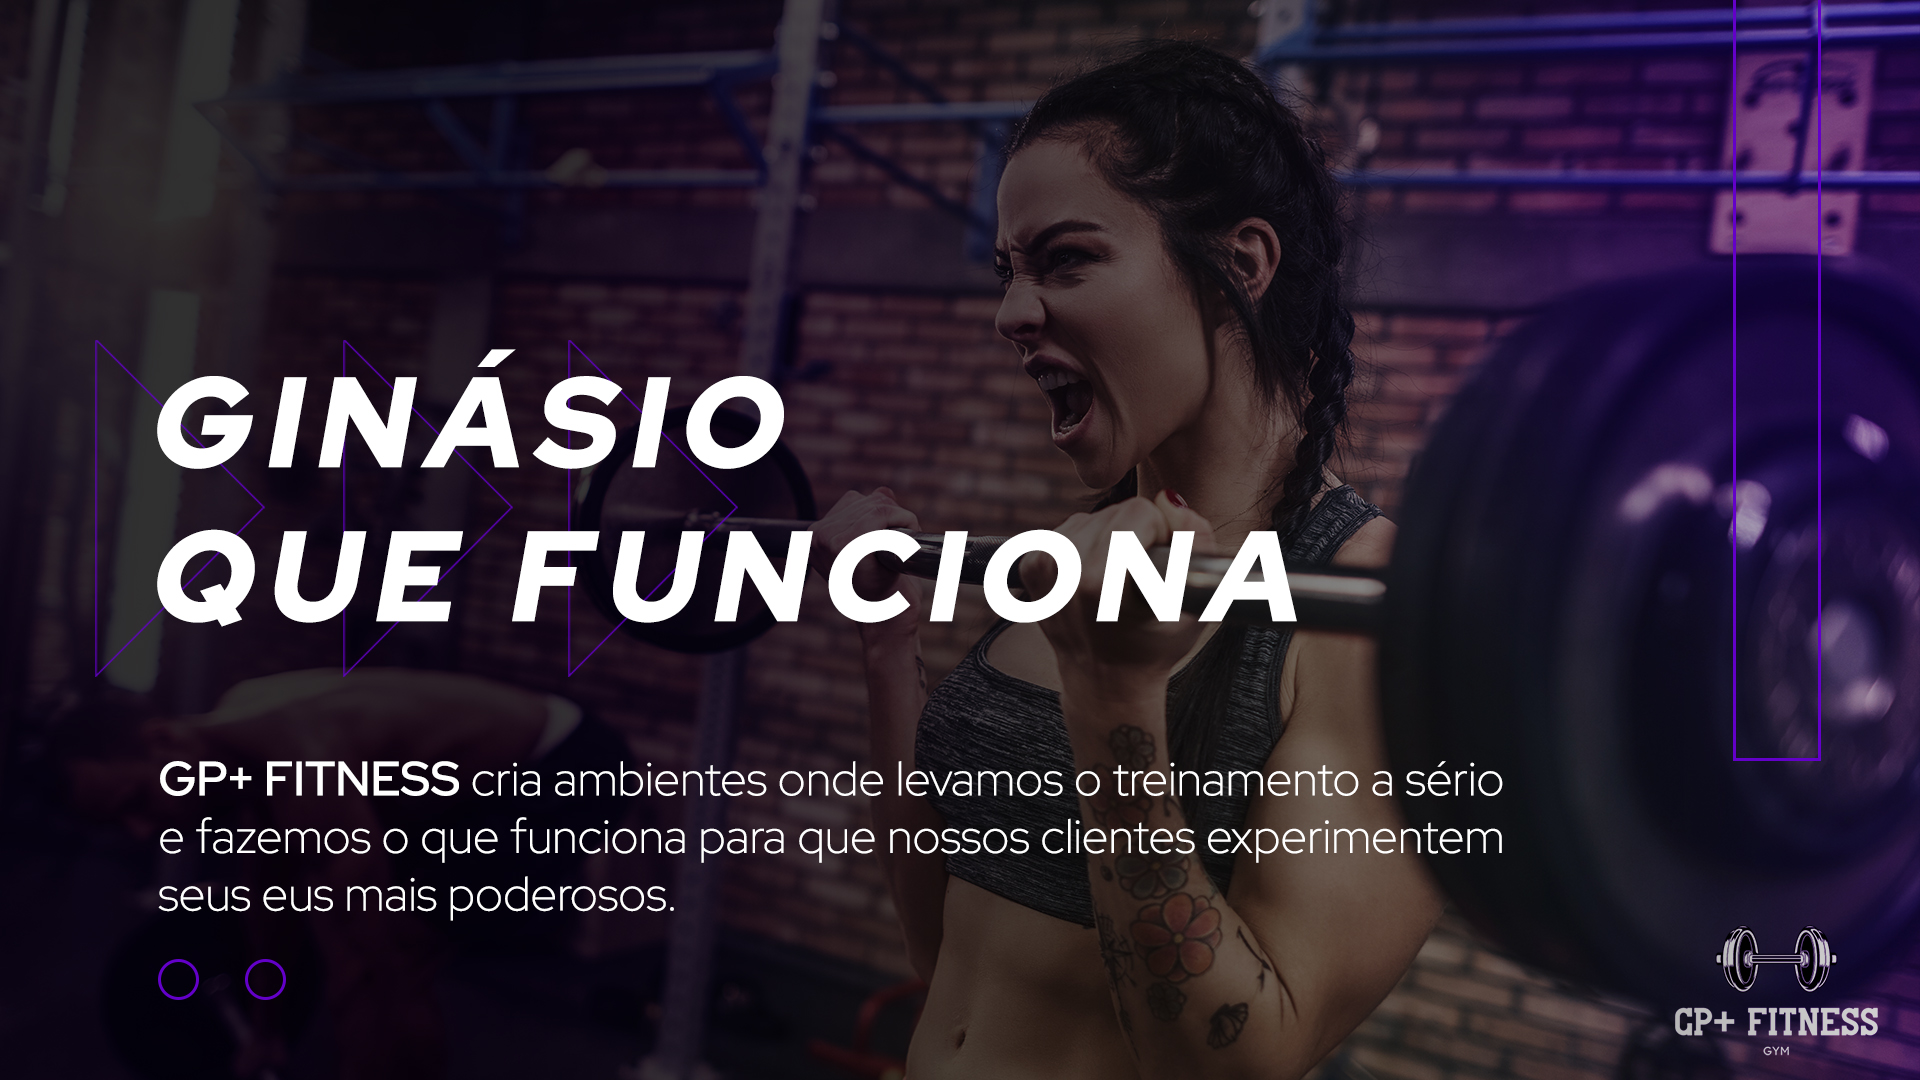
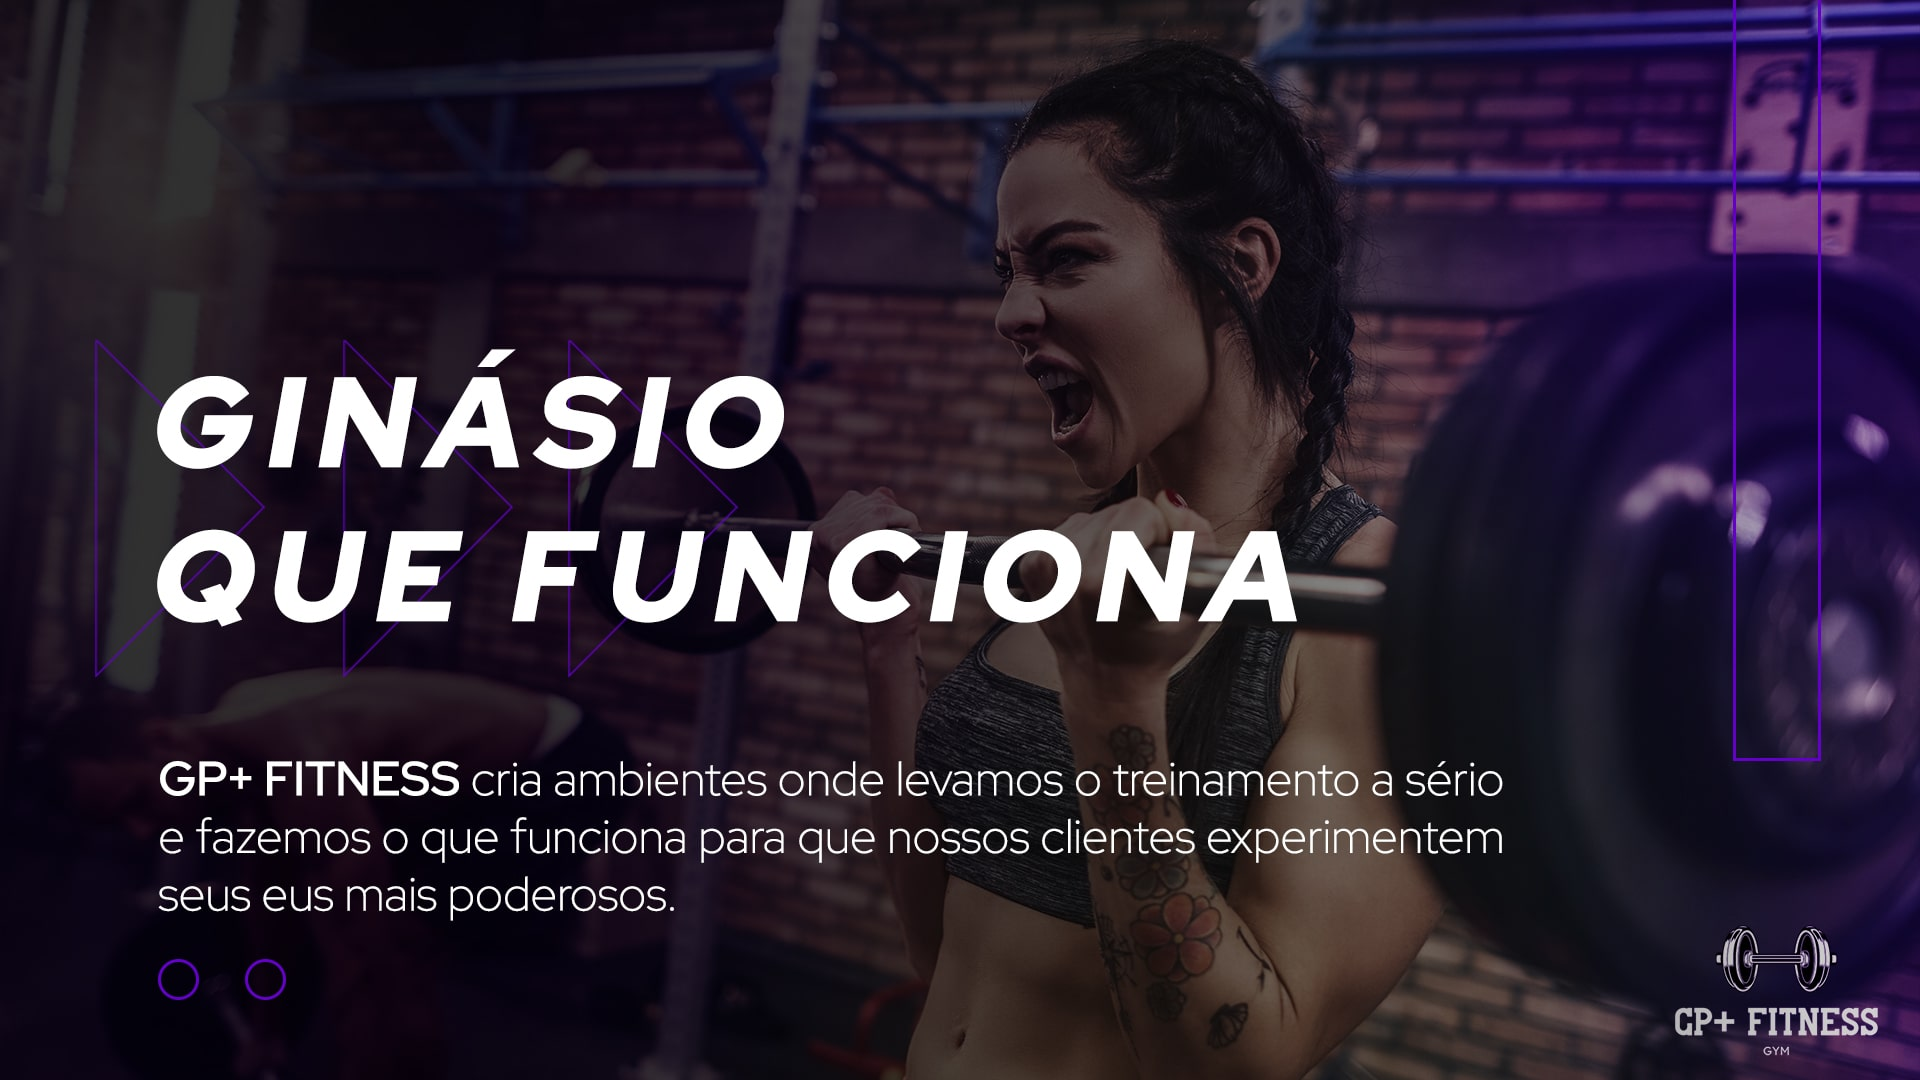
v2.3.2
Mudanças/adições da versão:
- imagens otimizadas

Changed region(s): [[0.125, 0.8861, 0.1562, 0.9167]]

diff --git a/Projeto Academia/index.html b/Projeto Academia/index.html
@@ -74,7 +74,7 @@
         </header>
     <!--  -->
 
-    <!-- seção 1 -->
+    <!-- sessao 1 -->
     <section>
         <div id="carouselExampleControls" class="carousel slide" data-bs-ride="carousel"> <!-- carrossel -->
             <div class="carousel-inner">
@@ -152,7 +152,7 @@
         </div>
     </section>
 
-    <!-- seção 2 -->
+    <!-- sessão 2 -->
     <section> 
     <div class="academia"> <!-- academia -->
         
@@ -250,7 +250,7 @@
     </div>
     </section>
 
-    <!-- seção 3 -->
+    <!-- sessão 3 -->
     <section>
     <div class="planos" id="planos"> <!-- planos -->
         <div class="principal-planos">
@@ -660,7 +660,7 @@
     </section>
 
 
-    <!-- seção 4 -->
+    <!-- sessão 4 -->
     <section> 
         <div class="principal-localizacao" id="horarios"> <!-- localização pag 1-->
             <div class="localizacao">
@@ -708,7 +708,7 @@
         </div>
     </section>
 
-    <!-- seção 5 -->
+    <!-- sessão 5 -->
     <section>
         <div class="principal-mensagem" id="mensagem"> <!-- enviar mensagem -->
 

diff --git a/Projeto Academia/css/style.css b/Projeto Academia/css/style.css
@@ -8,10 +8,6 @@
     box-shadow: 0px 10px 5px rgba(0, 0, 0, 0.2);
 }
 
-html{
-    scroll-behavior: smooth;
-}
-
 .nav-item a{
     color: black;
     font-weight:500;
@@ -2015,3 +2011,4 @@ footer{
 
 
 }
+
